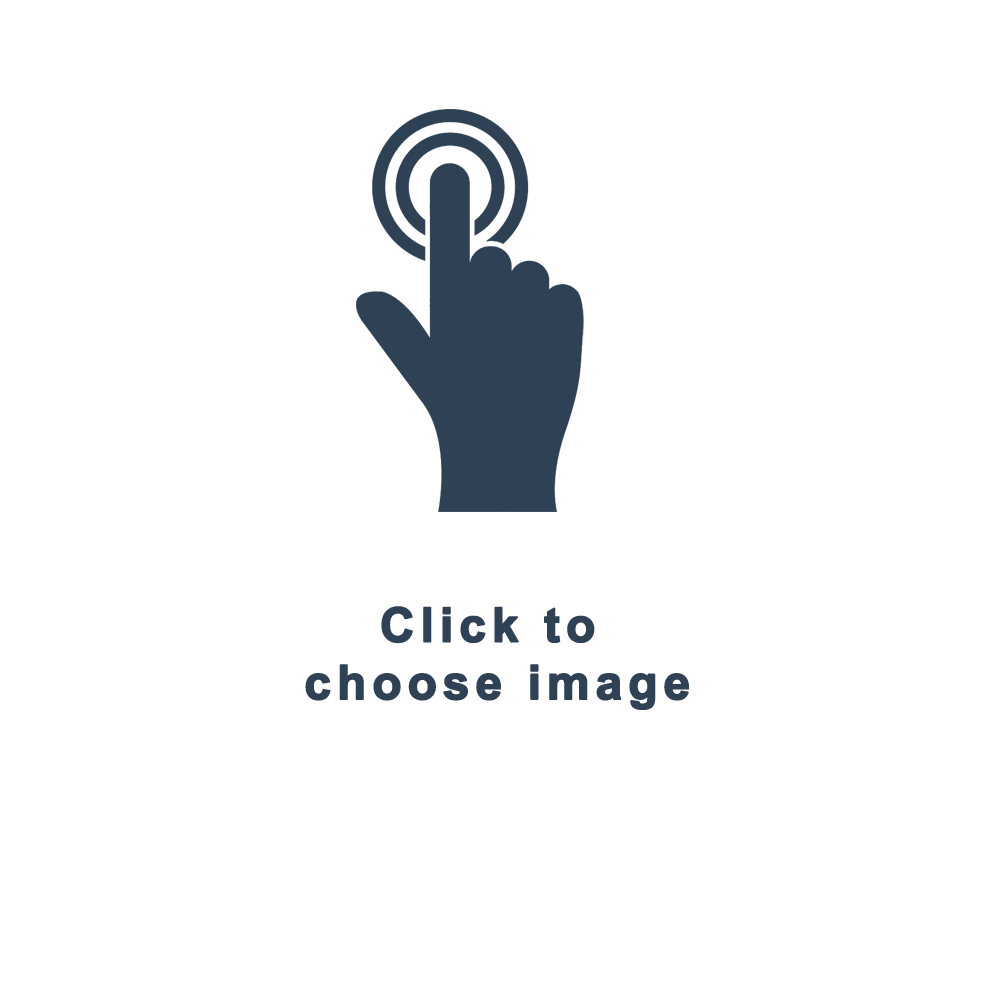
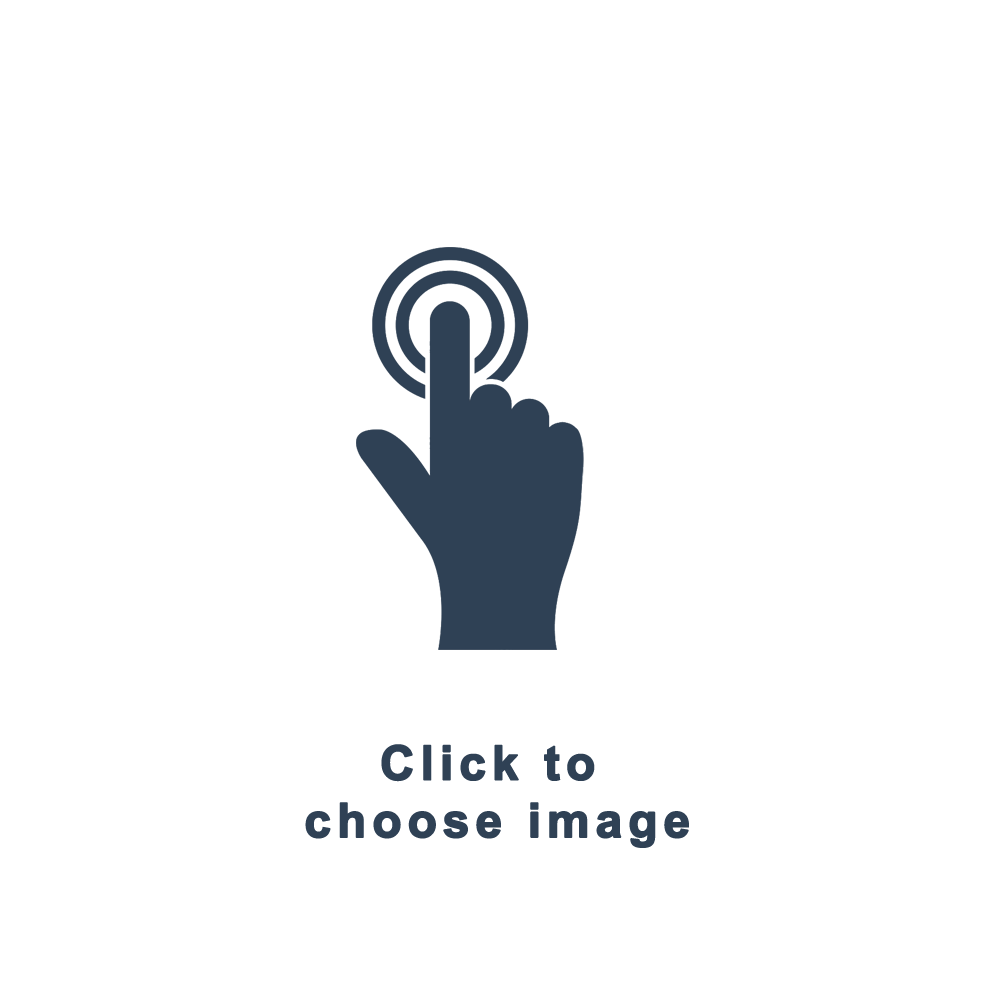
add background image to add image

Changed region(s): [[0.31, 0.093, 0.713, 0.713], [0.31, 0.744, 0.713, 0.868]]

diff --git a/src/components/PhotoModalToSave.js b/src/components/PhotoModalToSave.js
@@ -1,10 +1,12 @@
 import React, { useState } from "react";
-import { StyleSheet, Text, View, Image, TextInput, TouchableOpacity, Modal } from "react-native";
+import { StyleSheet, Text, View, Image, TextInput, TouchableOpacity, ImageBackground } from "react-native";
 
 import * as ImagePicker from "expo-image-picker";
 import Photos from "../services/sqlite/Photos";
 import Btn from "./Btn";
 import CameraOpen from "./CameraOpen";
+
+import Click from "../../assets/clicktoimage.png";
 
 function PhotoModalToSave({options}) {
 //  console.log(options.choiseCamGal);
@@ -68,6 +70,16 @@ function PhotoModalToSave({options}) {
               style={{width: '77%',height: '60%', marginBottom: 20, borderWidth: 1, borderRadius: 8 }}
               onPress={pickImage}
               >
+                <ImageBackground
+                  source={Click}
+                  style={{
+                    height: '100%',
+                    width: '100%',
+                    opacity: 0.6,
+                    position: 'absolute',
+                    
+                  }}
+                />
               <Image
                 src={image}
                 alt="image"

diff --git a/src/components/CameraOpen.js b/src/components/CameraOpen.js
@@ -58,9 +58,6 @@ const CameraOpen = (close) => {
           title="Take Picture" 
           onPress={() => takePicture()}
         />
-
-
-
         {/* {image && 
           <Image source={{uri: image}} style={{flex:1}}
         />} */}
